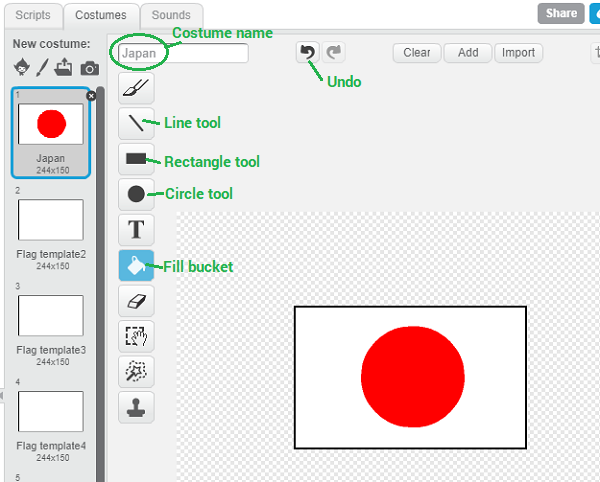
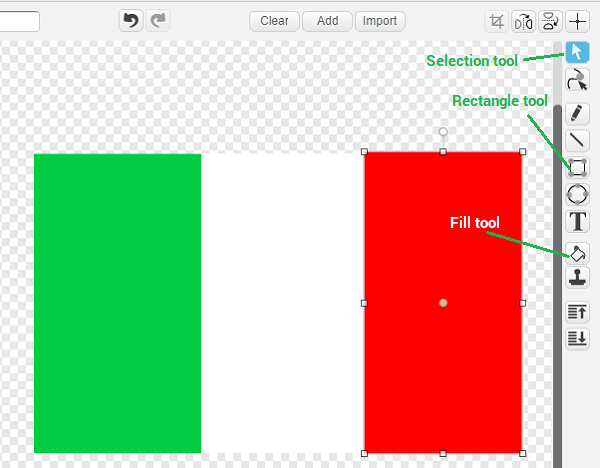
Add vector drawing explanation

diff --git a/en/step_3.md b/en/step_3.md
@@ -29,13 +29,17 @@ Download the [flags.sb2](resources/flags.sb2){:target="_blank"} Scratch starter 
 
 + Now we will draw the flags. Click on costume 1 and add the name of a country as the costume name.
 
-+ Use the drawing tools to draw that country's flag.
++ Use the vector drawing tools to draw that country's flag. Make sure your drawing is exactly the same size as the flag template.
 
-You can use the circle tool for circles, the rectangle tool to draw stripes and the line tool to draw more complicated shapes like stars. Fill in any blank areas with the fill bucket tool. If you make a mistake, use the undo button to remove it.
+[[[generic-scratch-vector-mode]]]
 
-![Vector drawing tools](images/vector-drawing.png)
+For example, you can draw the flag for Italy by drawing three equally sized rectangles using the rectangle tool. Position them using the selection tool.
 
-+ Draw another 9 flags so that you have 10 different flag 'costumes' in total. Make sure that the name of each costume is the name of the country whose flag is displayed.
+![Vector drawing](images/vector-drawing.png)
+
+You could easily create a similar flag by duplicating this costume but changing the colours. For example, to draw the flag for Belgium, duplicate the Italy flag, then use the fill bucket to fill each rectangle with a different colour.
+
++ Draw another 9 flags so that you have exactly 10 different flag 'costumes' in total. Make sure that the name of each costume is the name of the country whose flag is displayed.
 
 Here are the costumes we chose, but you can choose any flags you like for your game
 
